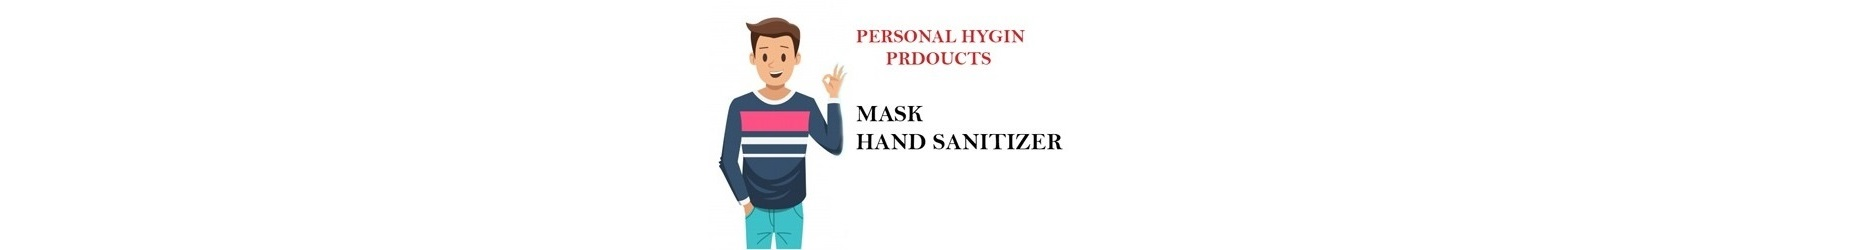
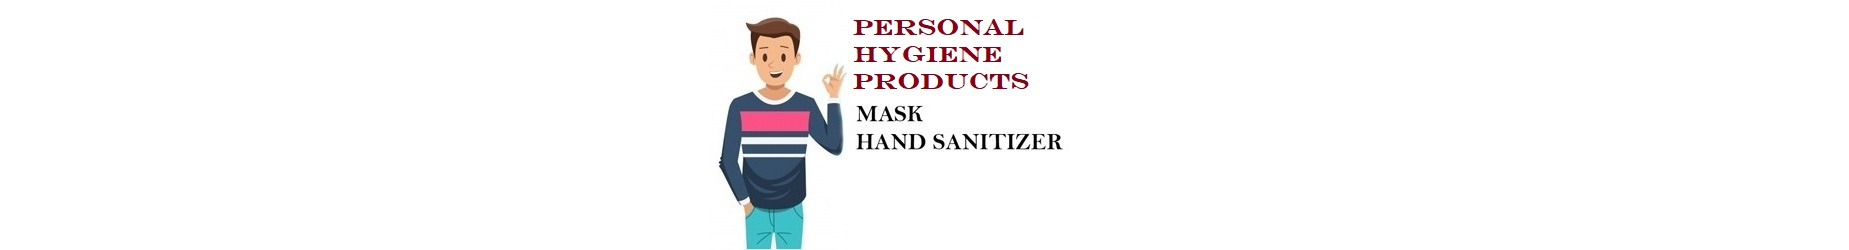
image

Changed region(s): [[0.4624, 0.056, 0.5549, 0.364]]

diff --git a/BeSafe/BeSafeindex.html b/BeSafe/BeSafeindex.html
@@ -57,7 +57,7 @@
     <nav class="navbar navbar-expand-lg navbar-dark ftco_navbar bg-dark ftco-navbar-light" id="ftco-navbar">
 	    <div class="container">
 	    <!-- <img src="images/logo.gif" width="45" height="45">  -->
-	      <a class="navbar-brand" href="BeSafeindex.html">Personal Hygin Product</a>
+	      <a class="navbar-brand" href="BeSafeindex.html">Personal Hygiene Product</a>
 	      <button class="navbar-toggler" type="button" data-toggle="collapse" data-target="#ftco-nav" aria-controls="ftco-nav" aria-expanded="false" aria-label="Toggle navigation">
 	        <span class="oi oi-menu"></span> Menu
 	      </button>
